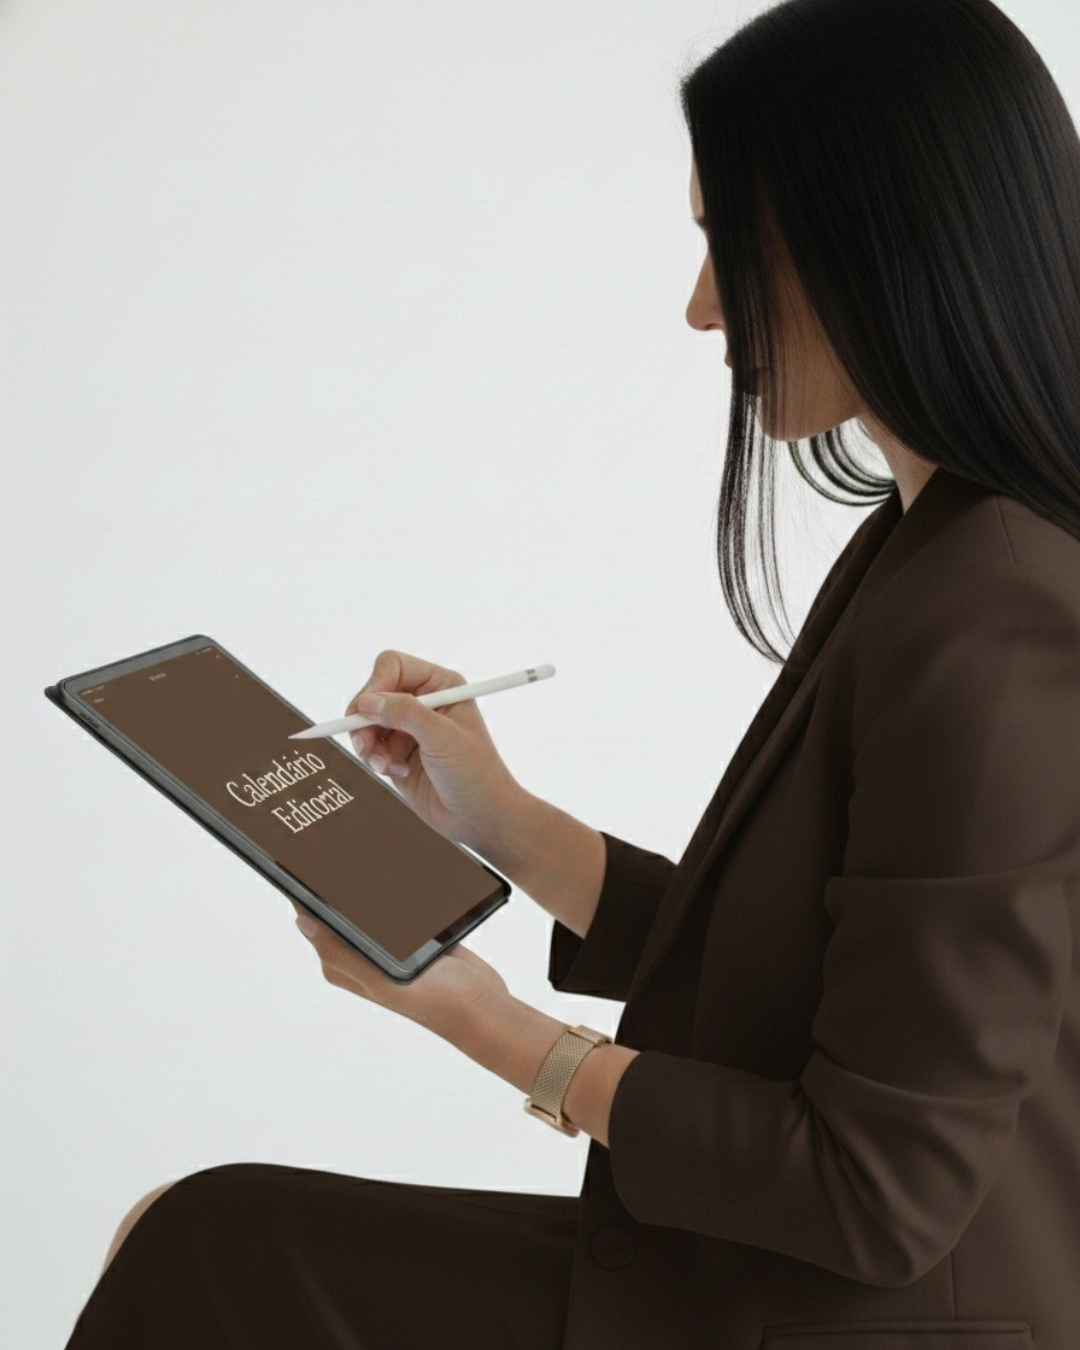
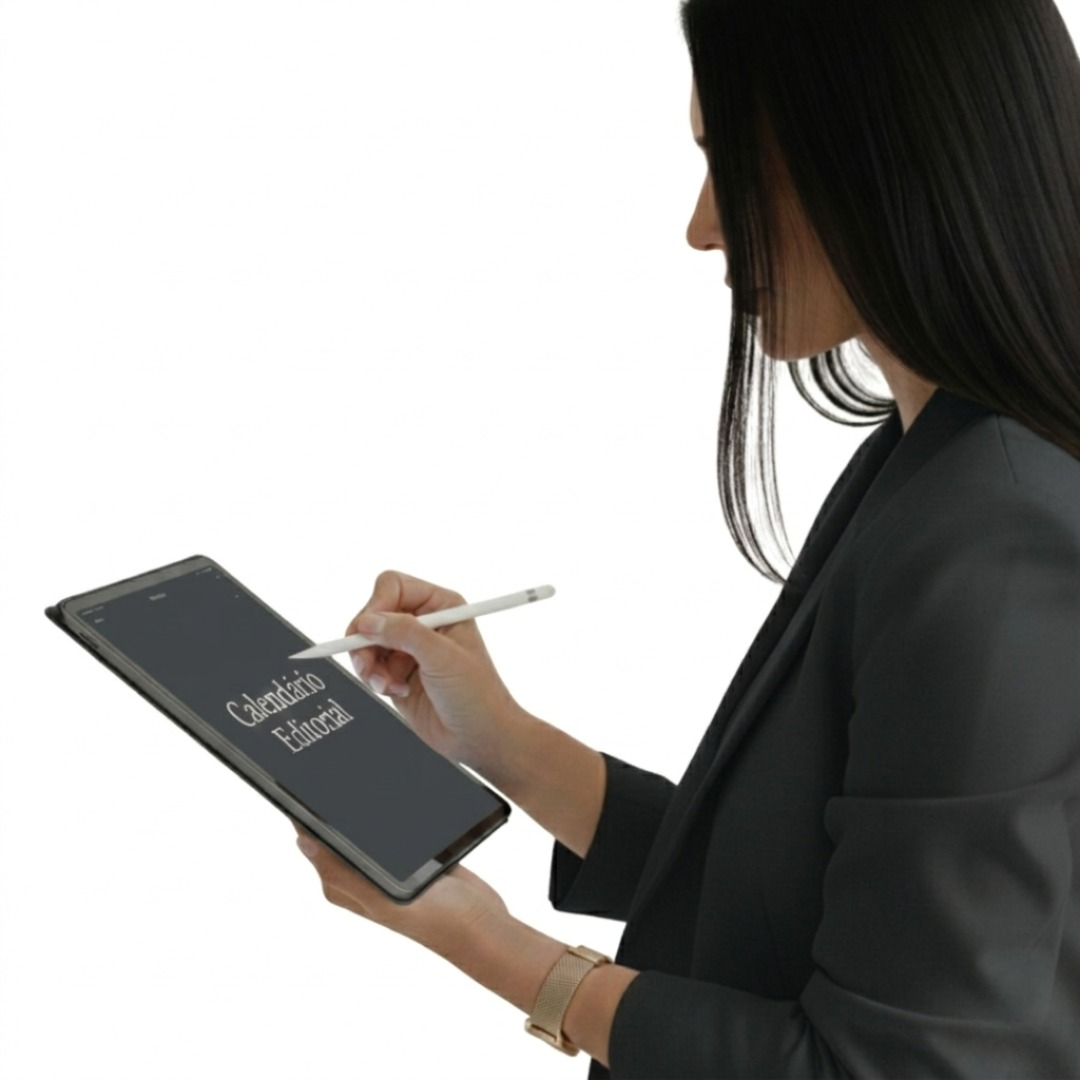
fix: qualidade de imagem melhorada

diff --git a/next.config.ts b/next.config.ts
@@ -1,7 +1,11 @@
 import type { NextConfig } from "next";
 
 const nextConfig: NextConfig = {
-  /* config options here */
+  images: {
+    minimumCacheTTL: 60,
+    formats: ["image/webp"],
+    qualities: [100],
+  },
 };
 
 export default nextConfig;

diff --git a/src/app/projectos/[id]/page.tsx b/src/app/projectos/[id]/page.tsx
@@ -50,6 +50,8 @@ export default async function ProjetoDetalhe({ params }: { params: Promise<{ id:
             src={projeto.imagem}
             alt={projeto.cliente}
             fill
+            sizes="100vw"
+            quality={100}
             className="object-cover"
             priority
           />